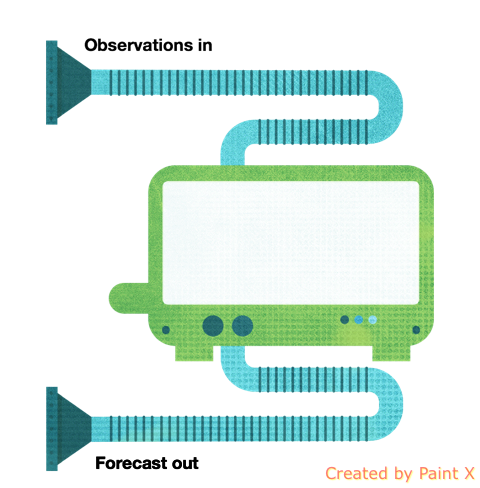
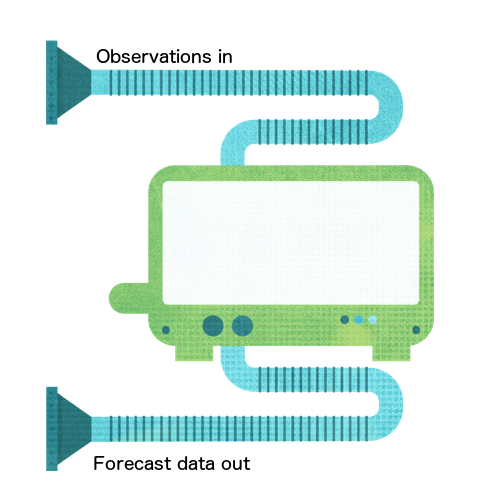
added more stuff

Changed region(s): [[0.1562, 0.0615, 0.5, 0.1537], [0.1875, 0.9221, 0.5312, 0.9836], [0.6562, 0.9529, 1.0, 0.9836]]

diff --git a/lib/physics/js/physics.js b/lib/physics/js/physics.js
@@ -17,7 +17,17 @@ var physics = {
 
     wrapper.append("img")
       .attr("id", "machine")
-      .attr("src", "/lib/physics/img/machine_labelled.png");
+      .attr("src", "/lib/physics/img/machine.png");
+    wrapper.append("div")
+      .attr("class", "label")
+      .style("top", "8%")
+      .style("left", "40%")
+      .html("<p>observations in</p>");
+    wrapper.append("div")
+      .attr("class", "label")
+      .style("top", "65%")
+      .style("left", "40%")
+      .html("<p>forecast data out</p>");
 
     var info = wrapper.append("div").attr("id", "info");
     info.append("div").attr("id", "infoeqn");
@@ -70,6 +80,13 @@ var physics = {
     function isEnd() {
       var eqn = wrapper.selectAll('.eqn');
       if (eqn[0].length === 0) {
+        wrapper.append("img")
+                .attr("src", "./images/4-forecasts-icon.svg")
+                .style("position", "absolute")
+                .style("left", "26%")
+                .style("top", "63%")
+                .style("width", "15%")
+                .style("height", "15%")
         showAccuracy();
       }
     }
@@ -169,57 +186,20 @@ var physics = {
     function moveGlobe() {
       svg.transition()
         .delay(1000)
-        .duration(1000)
-        .style("left", "460px")
-        .style("top", "50px")
+        .duration(2500)
+        .style("left", "560px")
+        .style("top", "110px")
         .tween("shinkglobe", function(){
           return function(t){
           projection = d3.geo.orthographic()
-                      .scale(Math.max(40 * (1.0-t), 10))
-                      .translate([Math.max(40 * (1.0-t), 10), Math.max(40 * (1.0-t), 10)]) // a third down the svg container div
+                      .scale(40 * (1.0-t))
+                      .translate([40 * (1.0-t), 40 * (1.0-t)]) // a third down the svg container div
                       .clipAngle(90);
           landpath = d3.geo.path().projection(projection);
         }})
+        .each("end", function(d){d3.select(this).remove()})
     }
 
-    function getBox(startPos, endPos){
-      var left, top, width, height;
-      left = Math.min(startPos.x, endPos.x);
-      top = Math.min(startPos.y, endPos.y);
-      width = Math.abs(startPos.x - endPos.x);
-      height = Math.abs(startPos.y - endPos.y);
-
-      return {"left": left, "top": top, "width": width, "height": height};
-    }
-
-    function drawLines(startPos, endPos){
-      console.log("in here");
-      dims = getBox(startPos, endPos);
-      console.log(dims);
-      // d3.timer(function(elapsed){
-        var svg = wrapper.append("svg")
-                      .style("position", "absolute")
-                      .style(dims)
-                      .attr("class", "arcsvg");
-        svg.append("line")          // attach a line
-              .attr("x1", startPos.x)     // x position of the first end of the line
-              .attr("y1", startPos.y)      // y position of the first end of the line
-              .attr("x2", startPos.x)     // x position of the second end of the line
-              .attr("y2", startPos.y)
-            .transition()
-              .duration(1000)
-              .attr("x1", startPos.x)     // x position of the first end of the line
-              .attr("y1", startPos.y)      // y position of the first end of the line
-              .attr("x2", endPos.x)     // x position of the second end of the line
-              .attr("y2", endPos.y)
-            .transition()
-              .delay(4000)
-              .style("opacity", 1.0)
-              .each("end", function(){
-                  // d3.select(this.parentNode).remove();
-              })
-      // }, 1000)
-    }
     //loadskill();
   },
 

diff --git a/lib/physics/css/physics.css b/lib/physics/css/physics.css
@@ -100,3 +100,10 @@ path.land {
   fill: #b7e07e;
   stroke: black;
 }
+
+.label {
+  position: absolute;
+  font-weight: 14px;
+  font-family: verdana, sans-serif;
+  color: black;
+}
